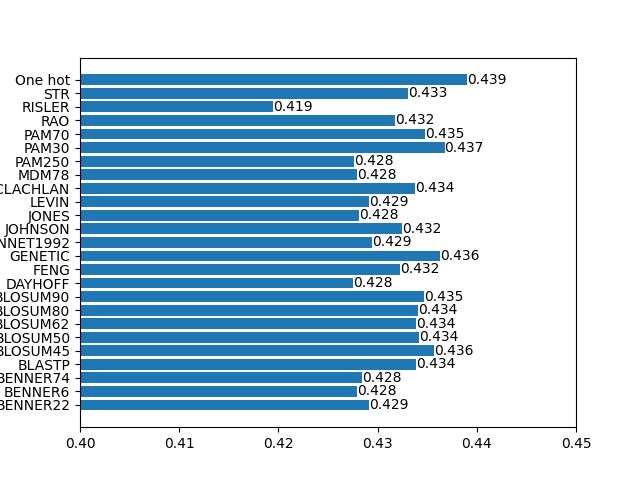
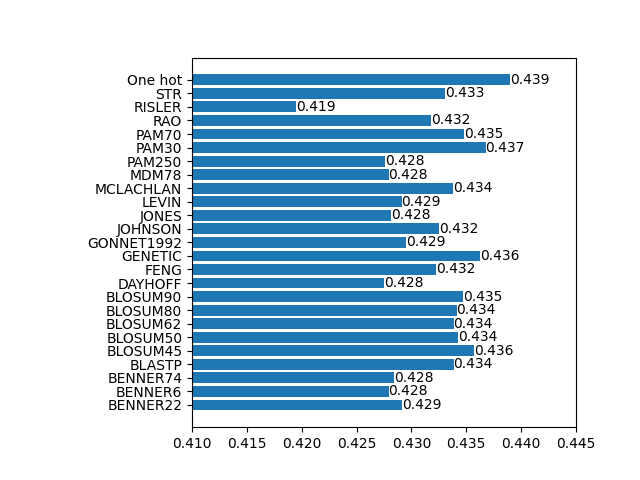
Refined the codes for knn and compared the performance of different hyperparameter(n_neighbors)

diff --git a/knn_demo.py b/knn_demo.py
@@ -13,11 +13,11 @@ epitope = df[9].tolist()
 cdr3.pop(0)
 epitope.pop(0)
 
-# encode_output = []
-# for i in cdr3:
-    # encode_output.append(one_hot_encode_cdr3(i,20))
+encode_output = []
+for i in cdr3:
+    encode_output.append(one_hot_encode_cdr3(i,20))
 
-encode_output= encode_cdr3_list(cdr3, 'BLOSUM62', 25)
+# encode_output= encode_cdr3_list(cdr3, 'BLOSUM62', 25)
 cdr3_flattened = [np.array(seq).flatten() for seq in encode_output]
 
 # split the data into training and testing sets
@@ -37,12 +37,32 @@ print("Accuracy:", accuracy)
 # I believe we can consider these results as a baseline.
 
 '''
+# test different n_neighbors
+n_neighbors = range(5, 101, 5)
+accuracies = []
+for n in n_neighbors:
+    knn = KNeighborsClassifier(n_neighbors=n)
+    knn.fit(X_train, y_train)
+    y_pred = knn.predict(X_test)
+    accuracy = accuracy_score(y_test, y_pred)
+    accuracies.append(accuracy)
+    print("Accuracy:", accuracy)
+import matplotlib.pyplot as plt
+plt.plot(n_neighbors, accuracies)
+plt.axvline(n_neighbors[accuracies.index(max(accuracies))], color='r', linestyle='--')
+plt.text(n_neighbors[accuracies.index(max(accuracies))], max(accuracies), f'n_neighbors={n_neighbors[accuracies.index(max(accuracies))]}', ha='left')
+plt.xlabel('Number of Neighbors')
+plt.ylabel('Accuracy')
+plt.savefig('knn_accuracy_n_neighbors.png')
+'''
+'''
+# test different matrices
 matrices_list = ['BENNER22', 'BENNER6', 'BENNER74', 'BLASTP', 'BLOSUM45', 'BLOSUM50', 'BLOSUM62', 'BLOSUM80', 
                  'BLOSUM90', 'DAYHOFF', 'FENG', 'GENETIC', 'GONNET1992', 'JOHNSON', 'JONES', 'LEVIN', 'MCLACHLAN', 
                  'MDM78', 'PAM250', 'PAM30', 'PAM70', 'RAO', 'RISLER', 'STR']
 accuracies=[]
 if len(accuracies) != len(matrices_list):
-    # 用0填充不足的accuracies
+    # use '0' to pad the list
     accuracies = accuracies + [0] * (len(matrices_list) - len(accuracies))
 for i in range(len(matrices_list)):
     if accuracies[i]!=0:
@@ -68,11 +88,11 @@ for i in range(len(matrices_list)):
     accuracies[i] = accuracy
 
 import matplotlib.pyplot as plt
-# 绘制条形图，轴范围为0.4到0.6，在条上显示数值
 plt.barh(matrices_list, accuracies)
-plt.xlim(0.4, 0.450)
+plt.xlim(0.41, 0.445)
 for x, y in zip(accuracies, matrices_list):
     plt.text(x, y, '%.3f' % x, ha='left', va='center')
+plt.subplots_adjust(left=0.3) # make room for the labels
 plt.savefig('knn_accuracy.png')
 '''
 
@@ -87,4 +107,17 @@ accuracies = [0.4291565615736998,0.4279170035030989,0.42840204796550796,0.433845
               0.4322824036647804,0.43627054702236595,0.4294799245486392,0.43249797898140663,0.42813257881972516,
               0.42910266774454325,0.4337914308811641,0.4279170035030989,0.4275936405281595,0.436755591484775,
               0.4347615198059822,0.43179735920237133,0.4194556723255187,0.4330369172729722,0.4390191323093506]
+'''
+'''
+n_neighbors = range(5, 101, 5)
+accuracies=[0.40722177310697927, 0.43416868768526, 
+            0.44058205335489087, 0.4390191323093506, 
+            0.4365939099973053, 0.43443815683104287, 
+            0.4315817838857451, 0.4289948800862301, 
+            0.42780921584478576, 0.42522231204527083, 
+            0.42506063055780113, 0.42279708973322555, 
+            0.421018593371059, 0.41880894637564, 
+            0.4159525734303422, 0.4155753166262463, 
+            0.4129345189975748, 0.411802748585287, 
+            0.41072487200215574, 0.4099703583939639]
 '''

diff --git a/encoders/README.md b/encoders/README.md
@@ -1,5 +1,10 @@
 # Encoding Methods
 This folder contains various encoding methods we have experimented with for encoding CDR3 sequences. The Complementarity-Determining Region 3 (CDR3) is a critical part of the T-cell receptor (TCR) and B-cell receptor (BCR) that is responsible for recognizing and binding to antigens. Encoding these sequences effectively is crucial for various immunoinformatics applications, including TCR/BCR repertoire analysis, antigen specificity prediction, and vaccine design.
-## BLOSUM90 Encoding
-- File: BLOSUM90_encode.py
--  This script utilizes the BLOSUM90 substitution matrix to encode CDR3 sequences. The BLOSUM90 substitution matrix provides scores for different amino acid pair substitutions. These scores are based on the frequency of amino acid substitutions in the protein sequence comparison. For each amino acid in the CDR3 sequence, the corresponding score in the BLOSUM90 matrix is used for encoding. Each amino acid was converted to a score vector that represents the substitution score of that amino acid with all other amino acids.
+## Biological Encoding
+- File: encoders/bio_matrices_encode.py
+-  This script utilizes the substitution matrices to encode CDR3 sequences. The BLOSUM90 substitution matrix provides scores for different amino acid pair substitutions. These scores are based on the frequency of amino acid substitutions in the protein sequence comparison. For each amino acid in the CDR3 sequence, the corresponding score in the BLOSUM90 matrix is used for encoding. Each amino acid was converted to a score vector that represents the substitution score of that amino acid with all other amino acids.
+## One-Hot Encoding
+- File: encoders/one_hot_encode.py
+- This script encodes CDR3 sequences using one-hot encoding. In this method, each amino acid in the CDR3 sequence is represented as a binary vector. The length of the vector is equal to the number of unique amino acids in the sequence. The vector contains all zeros except for the position corresponding to the amino acid, which is set to 1.
+## Comparing
+![Comparison](../knn_accuracy.png)
